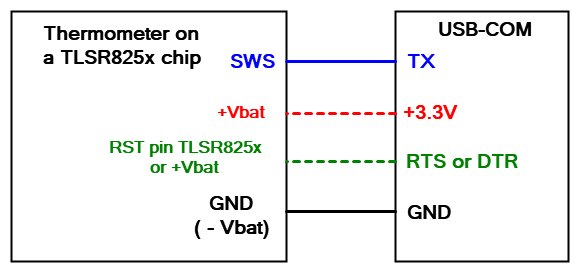
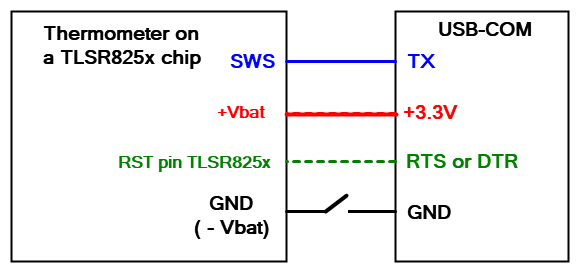
update README.md

diff --git a/README.md b/README.md
@@ -550,7 +550,9 @@ In difficult cases, when the chip contains an unknown FW, it is necessary to use
 
 ![atime.png](https://github.com/pvvx/ATC_MiThermometer/blob/master/img/atime.png)
 
-At the same time, take into account that the chip can be powered from the TX output. This is solved by connecting TX and +Vbat during "activation".
+At the same time, take into account that the chip can be powered from the TX output.
+
+For successful flashing, it is necessary to connect 3.3V power to +Vbat and TX to SWS, and during "activation" connect the GND wire to -Vbat.
 
 Alternative programmers:
 
